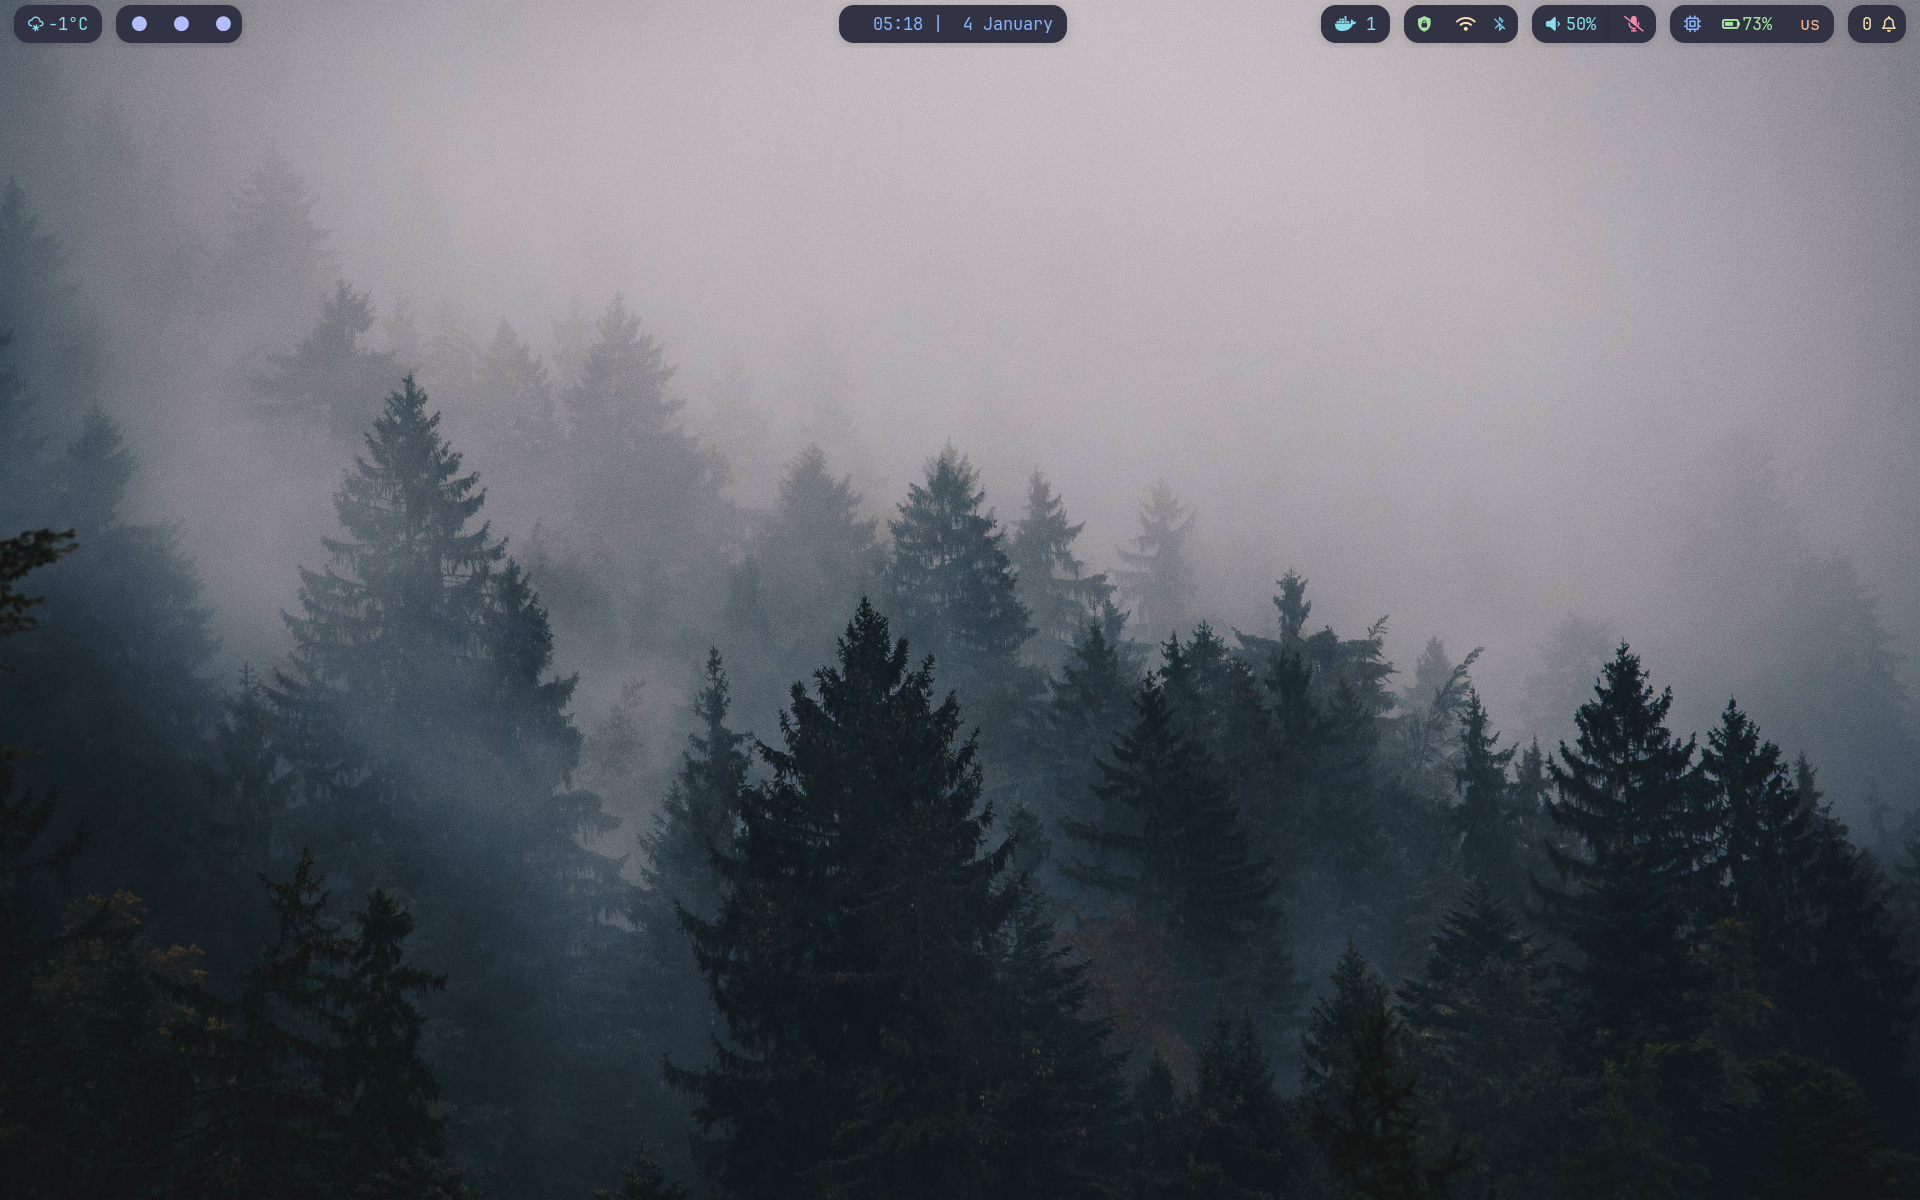
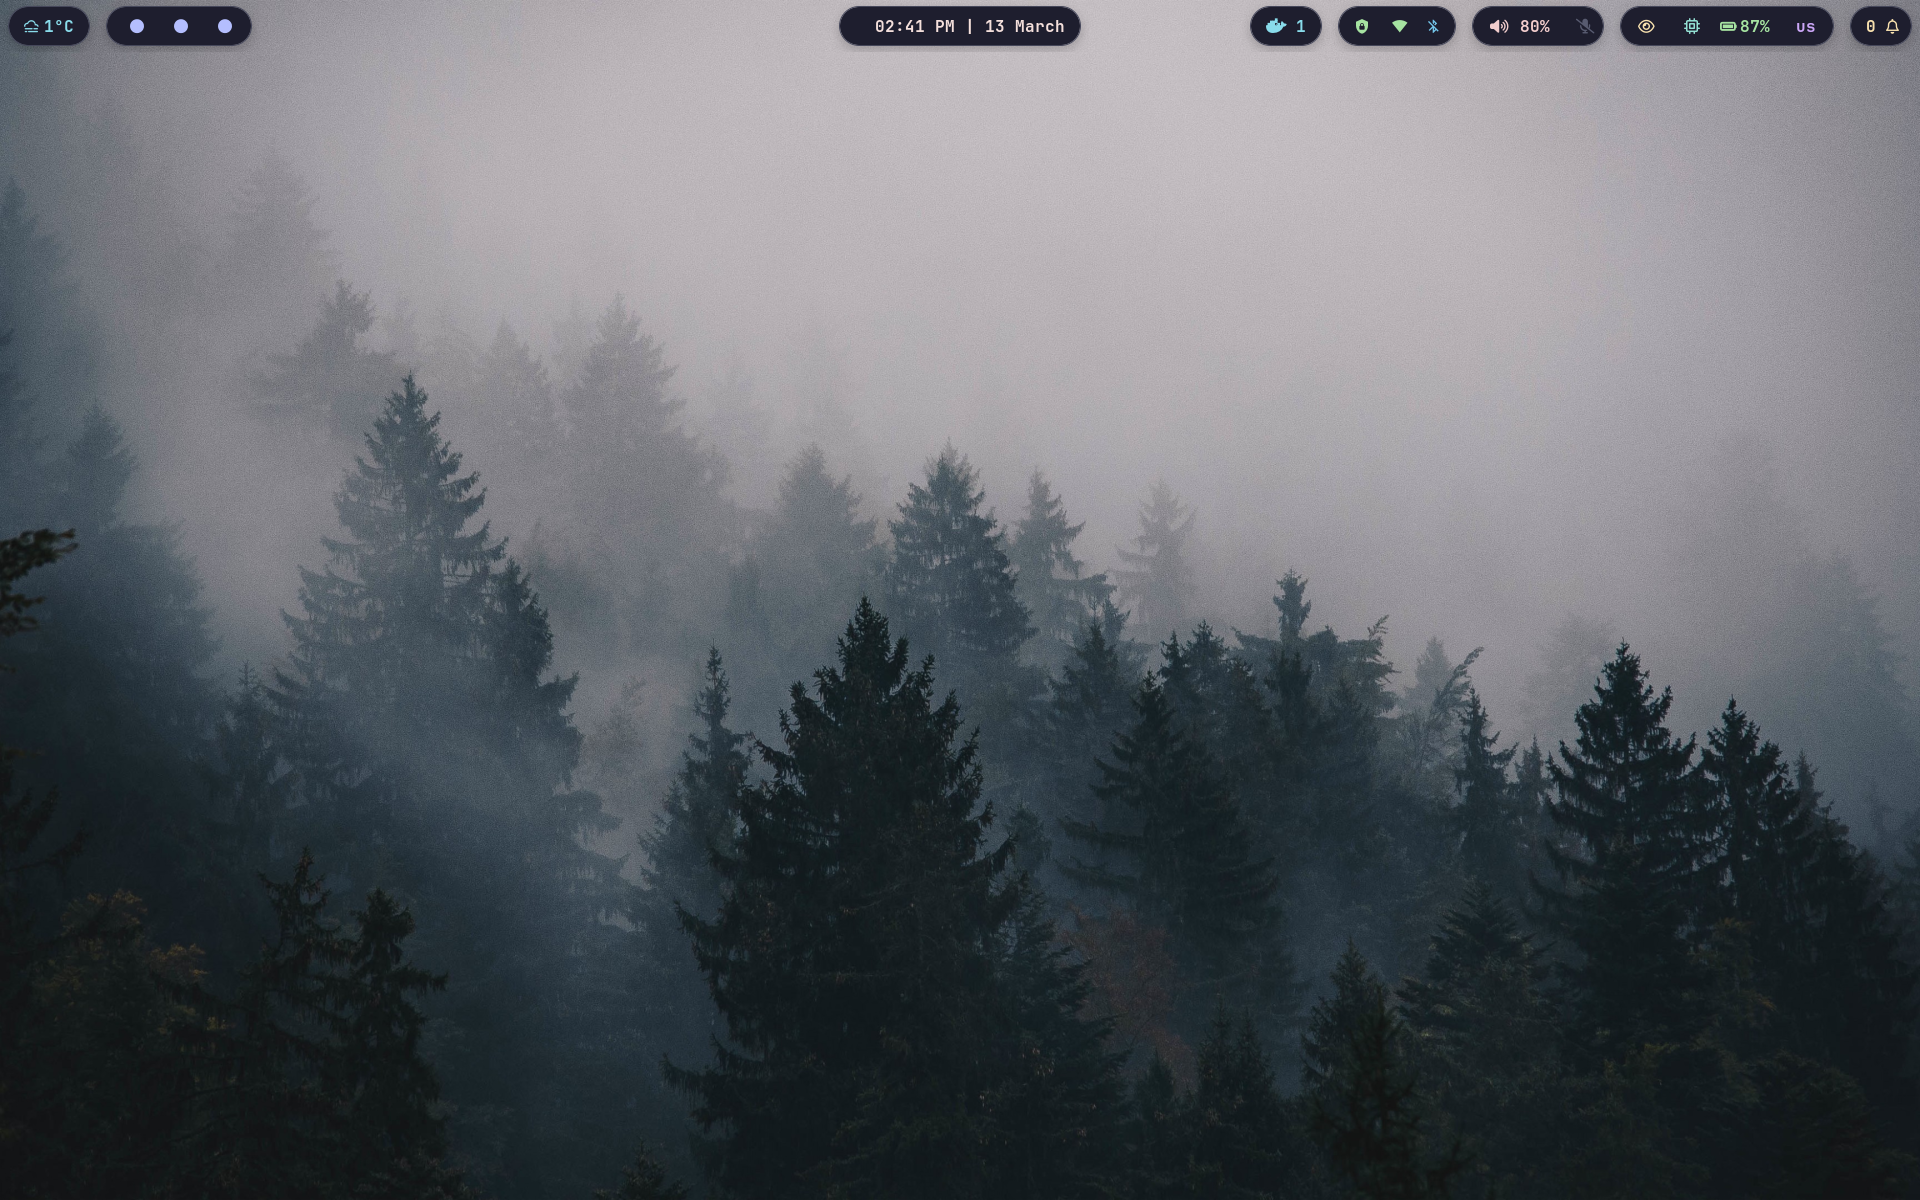
fix: reorganize README sections and remove obsolete notification center image

Changed region(s): [[0.625, 0.0, 1.0, 0.0617], [0.4375, 0.0, 0.5625, 0.0617], [0.0, 0.0, 0.1562, 0.0308]]

diff --git a/README.md b/README.md
@@ -12,11 +12,7 @@ Personal configuration files for Arch Linux with Sway (Wayland) desktop environm
 
 ![File Manager and Wallpaper](./assets/files-wallpaper.png)
 
-### 3. Terminal and Notification Center
-
-![Help Menu and Notifications](./assets/helpmenu-notifications.png)
-
-### 4. Neovim
+### 3. Neovim
 
 ![Neovim](./assets/neovim.png)
 
